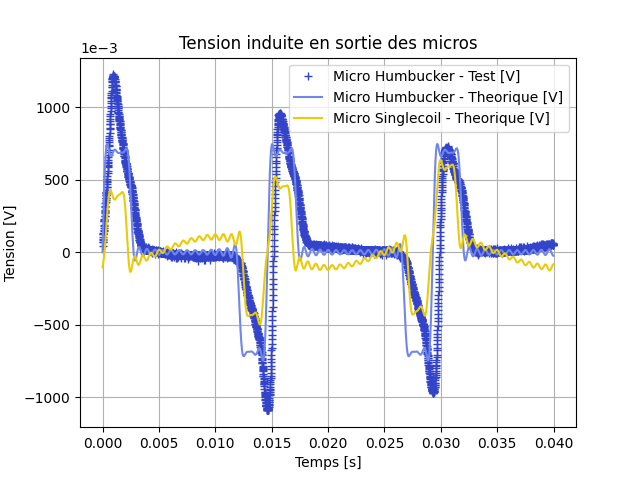
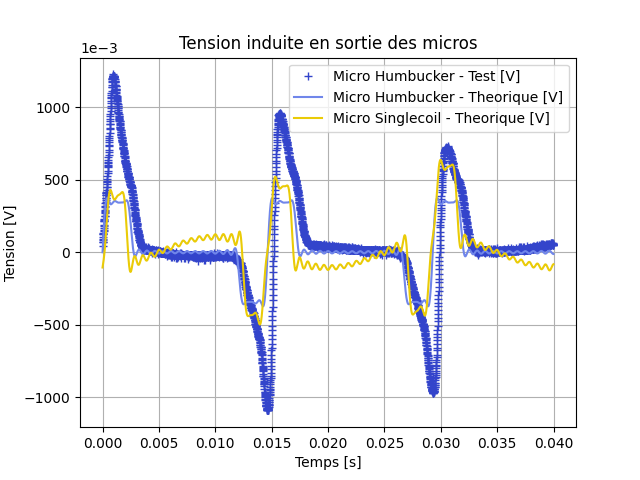
20 11 4

diff --git a/Python/Code/Modele_fem.py b/Python/Code/Modele_fem.py
@@ -41,7 +41,7 @@ N_s = 8000
 #* Parametre Micro Humbucker
 RCC_h = 4.52*10**3
 lmoy_h = lmoy_s            #A verifier ???
-N_h = 2*int(RCC_h*np.pi*d**2 / (8*rho*lmoy_h)) 
+N_h = int(RCC_h*np.pi*d**2 / (8*rho*lmoy_h)) 
 #* Parametre Champ parasite
 Nbob = 95
 R = 0.130/2
